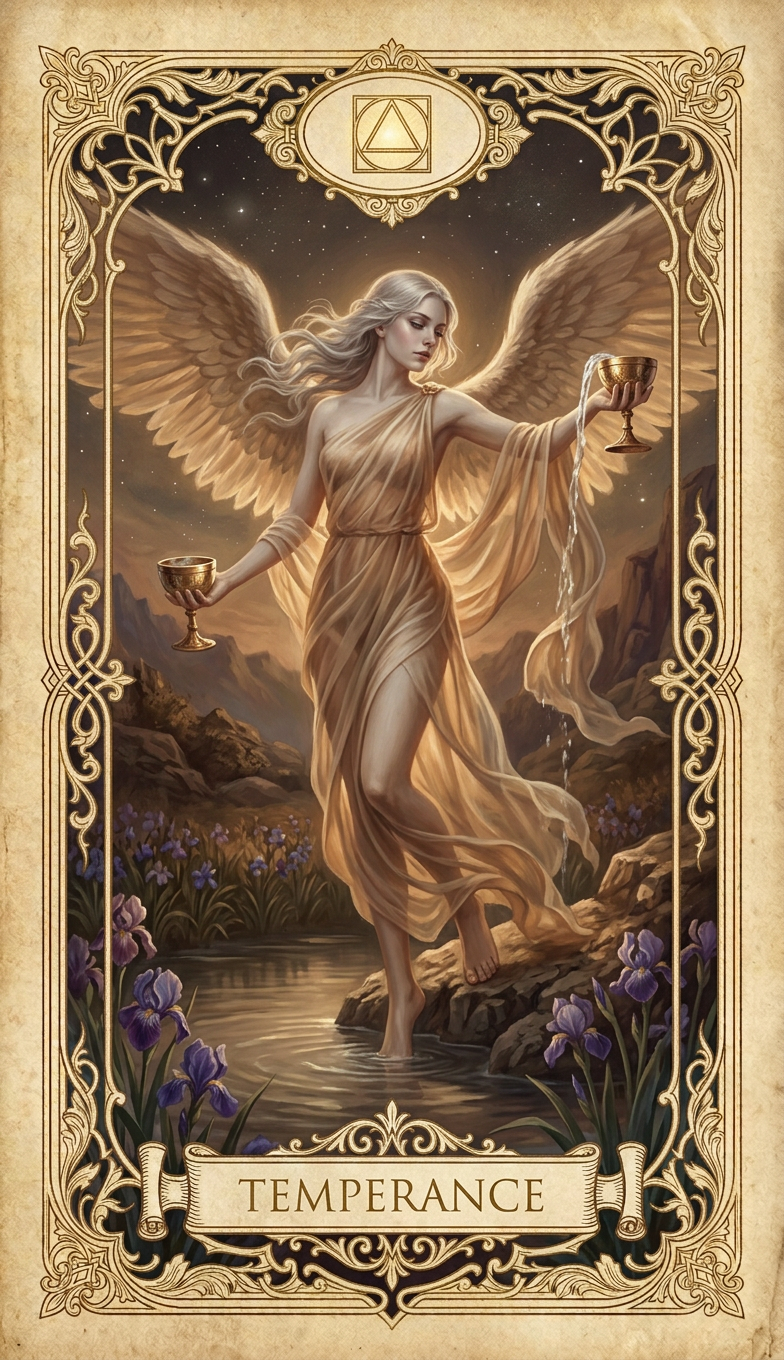
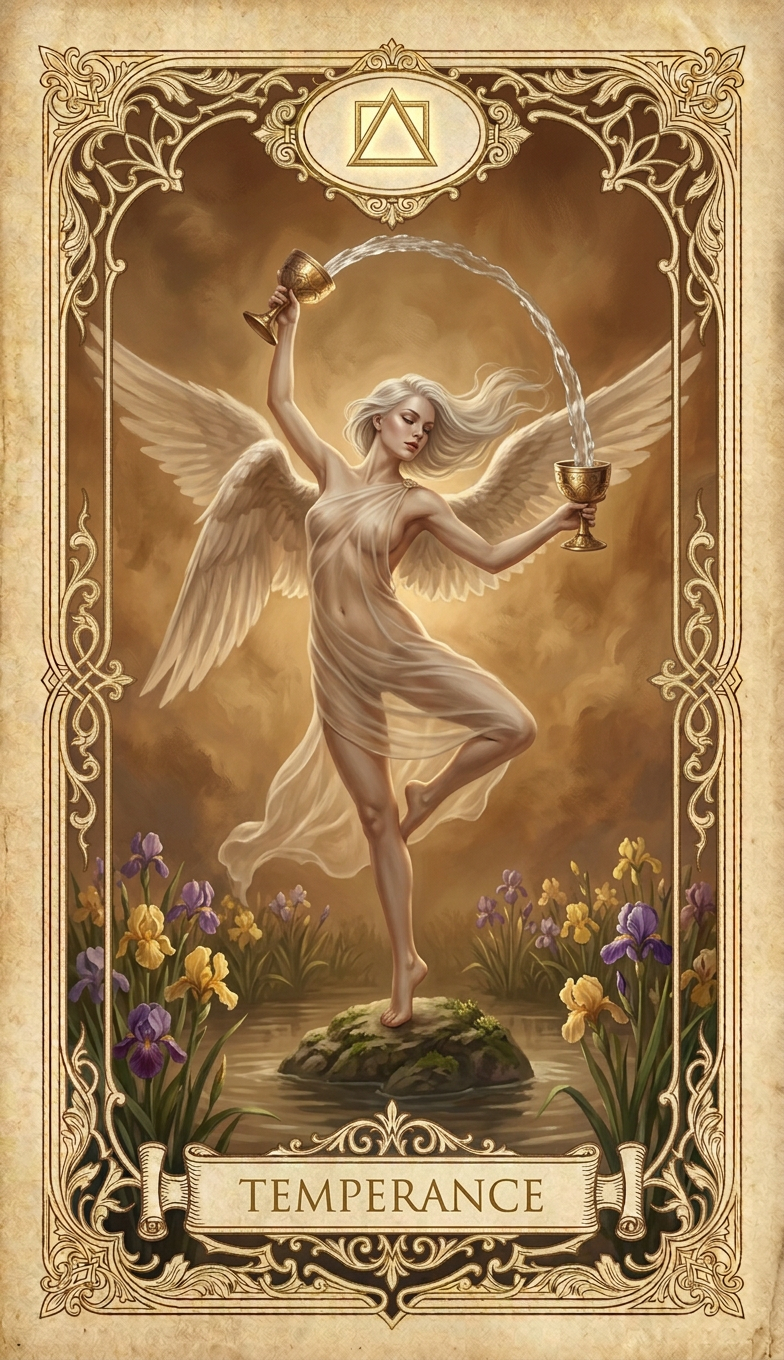
Rework Major Arcana progress: 8/12 done (Magician, Wheel, Death, Temperance)
New images frame-verified vs The Star (RMSE ~0.020):
- 01-magician (black rose garden)
- 10-wheel (regenerated)
- 13-death (sheer black silk, no armor)
- 14-temperance (new pose)

Rebuilt gallery (deck.json + index.html) with updated scene metadata.
Remaining: 00-fool, 11-justice, 15-devil, 20-judgement (next turn).

diff --git a/cards/index.html b/cards/index.html
@@ -77,8 +77,8 @@
             <img src="00-fool.png" alt="THE FOOL">
             <div class="card-details">
                 <div class="card-title">THE FOOL</div>
-                <div class="card-meta"><strong>Độ tuổi:</strong> 19 years old &bull; <strong>Huy hiệu:</strong> a white rose</div>
-                <div class="card-scene">a nude young woman wanderer, a long silk scarf slipping off one shoulder and streaming behind her, a white rose lifted in one hand and her eyes lowered to look at the rose, her bare back and hip caught in the morning light, stepping lightly toward a cliff edge, a small white dog leaping at her heel, distant mountains under a golden morning sun</div>
+                <div class="card-meta"><strong>Độ tuổi:</strong> 19 years old &bull; <strong>Huy hiệu:</strong> a black rose</div>
+                <div class="card-scene">a nude young woman wanderer, a long silk scarf slipping off one shoulder and streaming behind her, a single black rose lifted in one hand and her eyes lowered to look at the black rose, her bare back and hip caught in the morning light, stepping lightly toward a cliff edge, a small white dog leaping at her heel, distant mountains under a golden morning sun</div>
             </div>
         </div>
         <div class="card-item">
@@ -86,7 +86,7 @@
             <div class="card-details">
                 <div class="card-title">THE MAGICIAN</div>
                 <div class="card-meta"><strong>Độ tuổi:</strong> 22 years old &bull; <strong>Huy hiệu:</strong> an infinity symbol</div>
-                <div class="card-scene">a nude young woman magician, bare torso with a length of silk slung low across her hips, one hand raising a wand to the sky and the other pointing down to the earth, the altar table before her laid with a cup, a sword, a wand and a pentacle, a rose garden behind her</div>
+                <div class="card-scene">a nude young woman magician, bare torso with a length of silk slung low across her hips, one hand raising a wand to the sky and the other pointing down to the earth, the altar table before her laid with a cup, a sword, a wand and a pentacle, a garden of black roses behind her</div>
             </div>
         </div>
         <div class="card-item">
@@ -110,7 +110,7 @@
             <div class="card-details">
                 <div class="card-title">THE EMPEROR</div>
                 <div class="card-meta"><strong>Độ tuổi:</strong> 25 years old &bull; <strong>Huy hiệu:</strong> a ram's head</div>
-                <div class="card-scene">a commanding 25-year-old bare-shouldered female emperor in an ornate golden cuirass and crimson velvet mantle, seated resolutely on a stone throne carved with ram heads, holding an ankh scepter in one hand, barren rugged mountains behind her</div>
+                <div class="card-scene">a commanding 25-year-old female emperor, a crimson velvet mantle slipping from her bare shoulders and a sheer golden drape clinging over her sculpted bare torso, seated resolutely on a stone throne carved with ram heads, holding an ankh scepter in one hand, barren rugged mountains behind her</div>
             </div>
         </div>
         <div class="card-item">
@@ -118,7 +118,7 @@
             <div class="card-details">
                 <div class="card-title">THE HIEROPHANT</div>
                 <div class="card-meta"><strong>Độ tuổi:</strong> 24 years old &bull; <strong>Huy hiệu:</strong> two crossed golden keys</div>
-                <div class="card-scene">a serene 24-year-old female high mystic priestess in rich red-and-gold ceremonial robes, raising one blessing hand, two kneeling female acolytes before her, sacred temple pillars behind</div>
+                <div class="card-scene">a serene 24-year-old female high mystic priestess in sheer red-and-gold ceremonial vestments that leave her shoulders and the curve of one breast bare, raising one blessing hand, two kneeling female acolytes before her, sacred temple pillars behind</div>
             </div>
         </div>
         <div class="card-item">
@@ -134,7 +134,7 @@
             <div class="card-details">
                 <div class="card-title">THE CHARIOT</div>
                 <div class="card-meta"><strong>Độ tuổi:</strong> 22 years old &bull; <strong>Huy hiệu:</strong> a winged sun disk</div>
-                <div class="card-scene">a heroic bare-shouldered woman charioteer in fine steel under a starry canopy, standing in a stone chariot between two sphinxes, a walled city behind her</div>
+                <div class="card-scene">a heroic bare-shouldered woman charioteer wrapped in loose sheer white silk with no armor, standing tall in a stone chariot between two sphinxes under a starry canopy, a walled city behind her</div>
             </div>
         </div>
         <div class="card-item">
@@ -150,7 +150,7 @@
             <div class="card-details">
                 <div class="card-title">THE HERMIT</div>
                 <div class="card-meta"><strong>Độ tuổi:</strong> 23 years old &bull; <strong>Huy hiệu:</strong> a glowing lantern</div>
-                <div class="card-scene">a hermit woman standing on a bare mountain peak under a deep star-filled night sky, holding up a lit lantern with warm golden light pouring out of it, her head and body hooded and wrapped in a single sheet of WHITE TRANSPARENT SILK GAUZE that veils her head and falls in folds around her</div>
+                <div class="card-scene">a hermit woman standing on a bare mountain peak under a deep star-filled night sky, holding up a lit lantern with warm golden light pouring out of it, draped only in a loose sheer white silk gauze that slips from her bare shoulders and pools low around her hips, her bare back and the curve of one breast veiled and revealed by the golden lantern light</div>
             </div>
         </div>
         <div class="card-item">
@@ -166,7 +166,7 @@
             <div class="card-details">
                 <div class="card-title">JUSTICE</div>
                 <div class="card-meta"><strong>Độ tuổi:</strong> 24 years old &bull; <strong>Huy hiệu:</strong> balanced golden scales</div>
-                <div class="card-scene">a statuesque bare-shouldered queen, silk sliding off one shoulder to the curve of her breast, a sword upright in one hand and balanced scales in the other, seated on a stone throne between pillars</div>
+                <div class="card-scene">a statuesque bare-shouldered queen, a length of sheer silk sliding fully off one shoulder to bare one breast and one hip, a sword upright in one hand and balanced scales in the other, seated on a stone throne between pillars</div>
             </div>
         </div>
         <div class="card-item">
@@ -182,7 +182,7 @@
             <div class="card-details">
                 <div class="card-title">DEATH</div>
                 <div class="card-meta"><strong>Độ tuổi:</strong> 22 years old &bull; <strong>Huy hiệu:</strong> a five-petaled white rose</div>
-                <div class="card-scene">a striking 22-year-old pale female knight in ornate black armor riding a calm pale charger, holding a black banner adorned with a five-petaled white rose, a golden sunrise glowing between twin distant towers</div>
+                <div class="card-scene">a striking 22-year-old pale female figure draped in sheer black silk that veils and reveals her bare form, riding a calm pale charger, holding a black banner adorned with a five-petaled white rose, a golden sunrise glowing between twin distant towers</div>
             </div>
         </div>
         <div class="card-item">
@@ -190,7 +190,7 @@
             <div class="card-details">
                 <div class="card-title">TEMPERANCE</div>
                 <div class="card-meta"><strong>Độ tuổi:</strong> 22 years old &bull; <strong>Huy hiệu:</strong> a triangle within a square</div>
-                <div class="card-scene">a graceful winged adult figure with long loosened hair, wearing a sheer antique drape, standing in a THREE-QUARTER VIEW with her body turned toward the viewer, one knee bent with one foot on the rock and the other in the pool, her arms extended to either side pouring water between two golden chalices, irises blooming, warm sepia and ochre light</div>
+                <div class="card-scene">a graceful winged adult figure with long loosened hair, wearing a sheer antique drape, standing balanced on one foot atop the rock with her other leg lifted gracefully behind her and her back arched, both arms raised pouring a continuous arc of water between two golden chalices, irises blooming around the pool, warm sepia and ochre light</div>
             </div>
         </div>
         <div class="card-item">
@@ -198,7 +198,7 @@
             <div class="card-details">
                 <div class="card-title">THE DEVIL</div>
                 <div class="card-meta"><strong>Độ tuổi:</strong> 21 years old &bull; <strong>Huy hiệu:</strong> an inverted pentagram</div>
-                <div class="card-scene">a horned winged female arch-devil upon a dark pedestal; beside her two alluring nude young women arched in golden chains, their bodies glowing in candlelit shadow inside an obsidian cavern</div>
+                <div class="card-scene">a horned winged female arch-devil draped in sheer black silk upon a dark pedestal; beside her two alluring nude young women arched in golden chains, their bodies glowing in candlelit shadow inside an obsidian cavern</div>
             </div>
         </div>
         <div class="card-item">
@@ -238,7 +238,7 @@
             <div class="card-details">
                 <div class="card-title">JUDGEMENT</div>
                 <div class="card-meta"><strong>Độ tuổi:</strong> 22 years old &bull; <strong>Huy hiệu:</strong> a golden trumpet</div>
-                <div class="card-scene">a radiant winged female angel blowing a golden trumpet with a white banner; below, rising from calm waters, three beautiful nude young women with open arms turning toward the divine light</div>
+                <div class="card-scene">a radiant winged female angel blowing a golden trumpet with a white banner; below, rising from calm waters, three beautiful nude young women with open arms turning toward the divine light — one fair-skinned with flowing blonde hair, one warm-toned with dark auburn curls, and one deep-skinned with tight black coils — each with a distinct face and figure</div>
             </div>
         </div>
         <div class="card-item">
